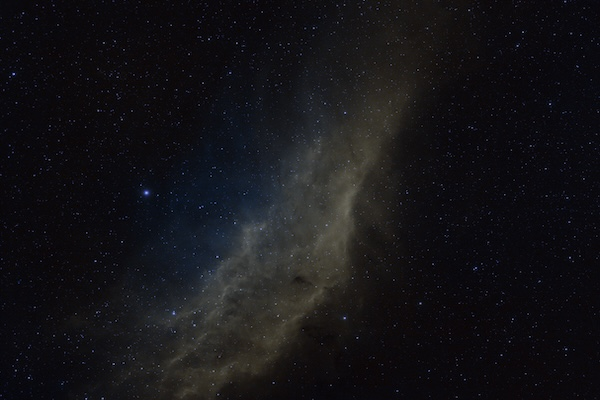
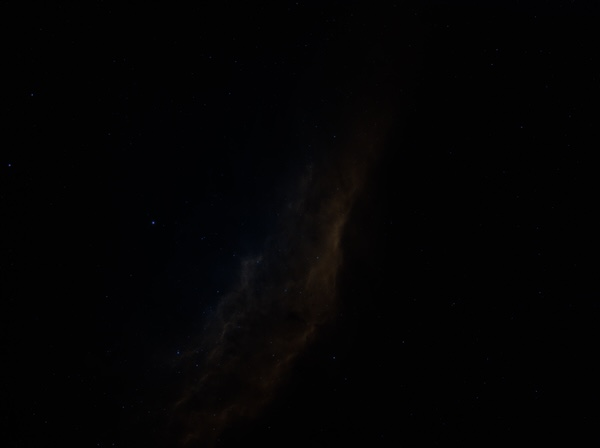
added v2 for NGC1499

diff --git a/_portfolio/5-NGC1499.md b/_portfolio/5-NGC1499.md
@@ -8,24 +8,26 @@ sidebar:
   - title: "NGC #1499"
     nav: sidebar-NGC1499
 gallery:
-  - url: /assets/images/M31_v1_120_secs_2022-02-12.jpg
-    image_path: assets/images/M31_v1_120_secs_2022-02-12-th.jpg
-    alt: "M31 on Feb 12th with 120 secs"
-  - url: /assets/images/M31_v1_180_secs_2022-02-13.jpg
-    image_path: assets/images/M31_v1_180_secs_2022-02-13-th.jpg
-    alt: "M31 on Feb 13th with 180 secs"
-  - url: /assets/images/M31_v1_processed_2022-02-12n13.jpg
-    image_path: assets/images/M31_v1_processed_2022-02-12n13-th.jpg
-    alt: "Final M31 after processing"
+  - url: /assets/images/NGC1499_v1_2025-01-10.jpg
+    image_path: assets/images/ngc1499/NGC1499_v1_2025-01-10-th.jpg
+    alt: "California Nebula v1"
+  - url: /assets/images/NGC1499_v2_2025-01-10.png
+    image_path: assets/images/ngc1499/NGC1499_v2_2025-01-10-th.png
+    alt: "California Nebula v2"
 ---
 
 The California Nebula, officially cataloged as NGC 1499, is a striking emission nebula located in the constellation Perseus. Its name comes from its resemblance to the outline of the state of California. This celestial feature glows predominantly in red hues due to the ionization of hydrogen gas, a process driven by the ultraviolet radiation of nearby stars. Spanning about 100 light-years in length, the nebula is a vast and sprawling cloud of gas and dust that is actively interacting with its stellar environment.
 
+Here you can see different ways of processing the same data, available for download in their full size at the bottom of this page.
+{% include gallery caption="Applying different processing techniques." %}
+
 Situated approximately 1,000 light-years away from Earth, the California Nebula is relatively close in astronomical terms. Its prominent red glow is primarily caused by a hot, young star known as Xi Persei, a massive and luminous star that emits the intense radiation necessary to energize the nebula's gas. The interplay between this radiation and the surrounding gas creates the bright, glowing structure that we see through telescopes. The nebula's location in Perseus makes it a favorite target for astrophotographers, particularly in the northern hemisphere, where it is well-positioned for observation during fall and winter. The nebula’s beauty and scientific importance underscore its status as one of the most fascinating objects in our galactic neighborhood.
 
 
-You can also download the full size high resolution image .
-<a href="https://www.costel.me/assets/images/ngc1499/NGC1499-California.jpg" class="btn btn--success" download>Download (37 MB)
+You can also download the full size high resolution image.
+<a href="https://www.costel.me/assets/images/ngc1499/NGC1499-California-v1.png" class="btn btn--success" download>Download (37 MB)
 </a>
 
-Stay tuned for updates on how it was processed.
+I took a stab of reprocessing the data, decreasing the intensity of the stars and bringing more colour to the H⍺ channel. 
+<a href="https://www.costel.me/assets/images/ngc1499/NGC1499-California-v2.png" class="btn btn--success" download>Download v2 (128 MB)
+</a>
